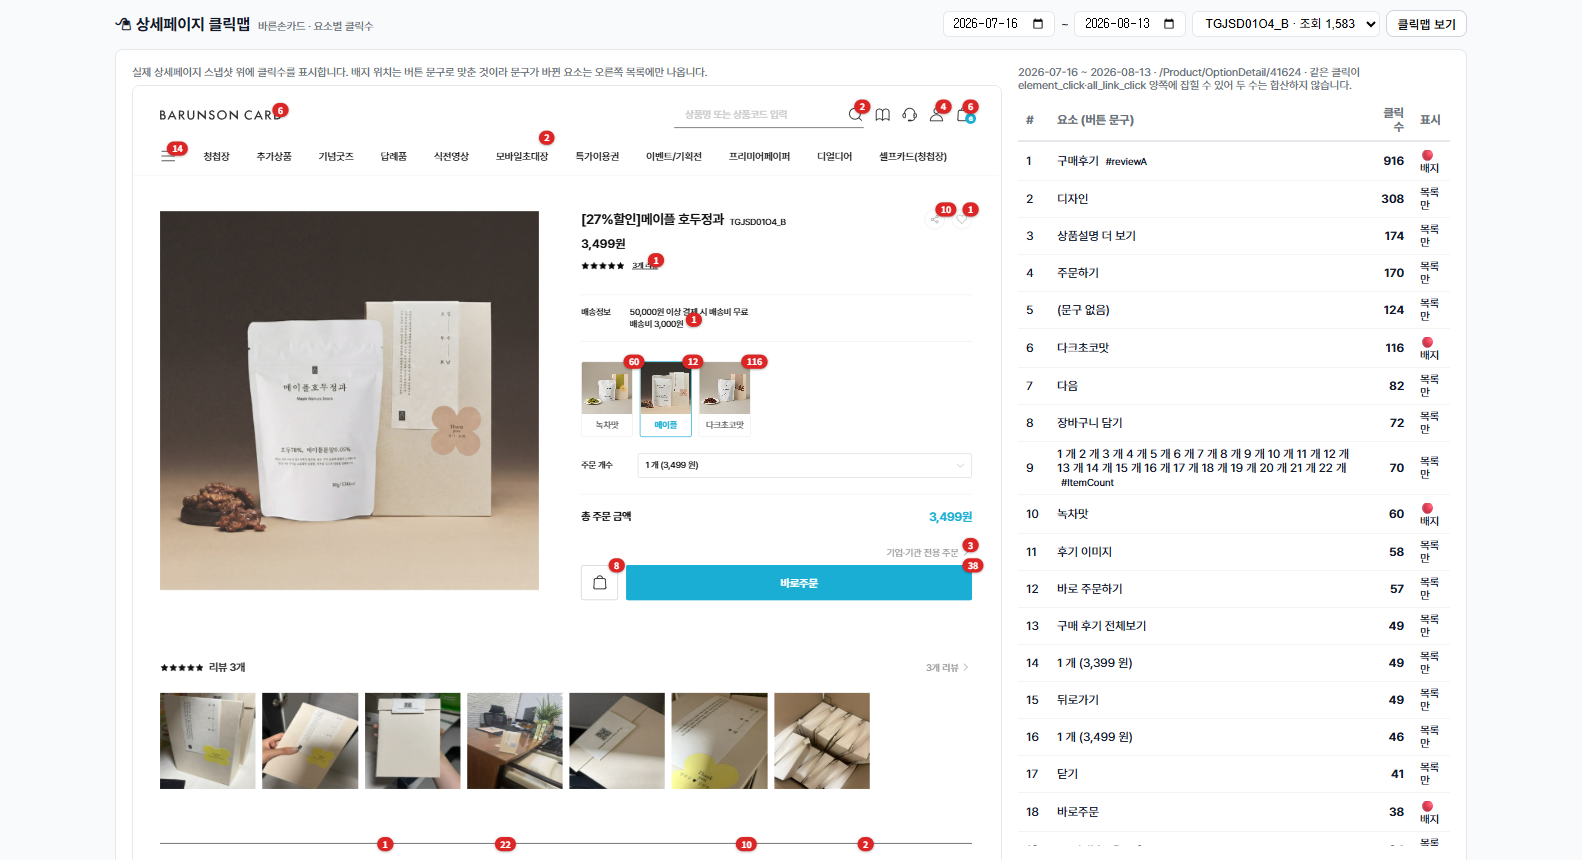
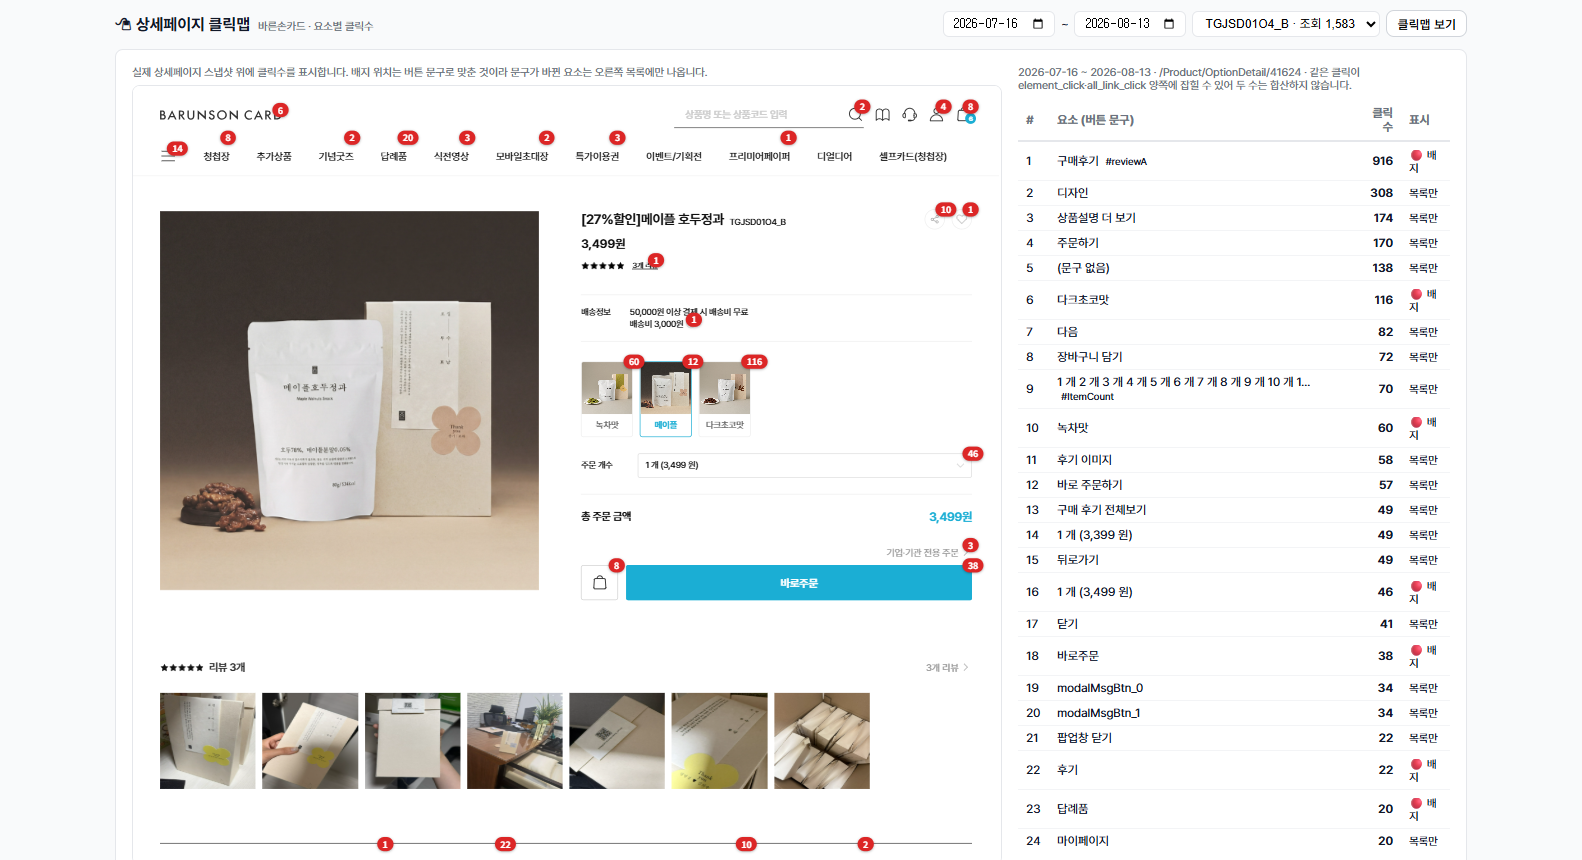
fix: 클릭맵 리뷰 지적 5건 — 값 가림·낡은 목록·빈 스크롤·숨은요소 탈락·리스너 중첩
3렌즈(보안·정합성·UI) 교차 리뷰에서 확인된 결함 전부 수정. 보안 렌즈는 확인된
지적 없음 (sandbox + 서버 sanitize + CSP + 경로 화이트리스트 유지).

1. count 대표값이 큰 값을 가림 (정합성) — 병합 키가 요소가 아니라 '문구' 라서,
   같은 문구의 버튼(element 40)과 링크(all_link 900)가 한 줄이 되면 'element 우선'
   규칙이 900 을 통째로 숨겼다. max(element, all_link) 로 — 더하지도 숨기지도 않는다.
2. 날짜를 바꿔도 페이지 목록이 옛 기간 기준 (정합성) — _cmPagesLoaded 리셋이 없어
   드롭다운의 '조회 N' 과 배지 수치가 서로 다른 기간을 가리켰다. 날짜 change 에서
   리셋, 다시 받아도 보던 페이지 선택은 유지.
3. 축소 시 수만 px 백지 스크롤 (UI) — transform 은 레이아웃 크기를 안 바꾸는데
   스케일러를 원본 크기로 잡아 콘텐츠가 끝난 뒤 ~19,000px 빈 영역이 생겼다.
   스케일러를 축소된 크기로 (검증자가 실브라우저로 수정안까지 확인).
4. 숨은(0×0) 요소가 매칭 1순위로 뽑혀 배지 통째 탈락 (UI) — GNB '답례품' 처럼
   데스크톱/모바일 메뉴에 같은 문구가 중복되면 숨은 쪽이 '가장 작은 요소' 로 뽑히고
   크기 가드에서 행이 버려졌다. 색인 단계에서 숨은 요소 제외 + click_id 로 찾은
   요소가 숨어 있으면 문구 매칭으로 폴백. 배지 24 → 31개로 회복.
5. 연속 조회 시 load 리스너 중첩 (UI) — 이전 조회의 배지가 새 페이지 위에 겹쳐
   찍힐 수 있었다. 세대 토큰으로 stale 콜백 폐기 + 이전 리스너 제거 + 부착 전
   기존 배지 삭제 (3중 방어).

회귀 테스트 추가 (값 가림), 실 데이터로 배지 31개·빈 스크롤 없음 확인.

diff --git a/pricing-prototype/daeryepum/index.html b/pricing-prototype/daeryepum/index.html
@@ -809,9 +809,10 @@ nav.nav-loading a[href^="#"] {
     <div class="section-title" style="display:flex;justify-content:space-between;align-items:center;flex-wrap:wrap;gap:8px">
       <span>🖱 상세페이지 클릭맵 <span style="font-size:11px;font-weight:400;color:var(--gray-500);margin-left:4px">바른손카드 · 요소별 클릭수</span></span>
       <div style="display:flex;gap:6px;align-items:center;flex-wrap:wrap;font-size:12px;font-weight:400">
-        <input type="date" id="cm-from" style="padding:4px 8px;font-size:12px;border:1px solid var(--gray-200);border-radius:6px">
+        <!-- 날짜를 바꾸면 페이지 목록(조회수 순)도 그 기간 기준으로 다시 받아야 한다 -->
+        <input type="date" id="cm-from" onchange="_cmPagesLoaded=false" style="padding:4px 8px;font-size:12px;border:1px solid var(--gray-200);border-radius:6px">
         <span style="color:var(--gray-400)">~</span>
-        <input type="date" id="cm-to" style="padding:4px 8px;font-size:12px;border:1px solid var(--gray-200);border-radius:6px">
+        <input type="date" id="cm-to" onchange="_cmPagesLoaded=false" style="padding:4px 8px;font-size:12px;border:1px solid var(--gray-200);border-radius:6px">
         <select id="cm-page" onfocus="loadClickmapPages()" style="padding:4px 8px;font-size:12px;border:1px solid var(--gray-200);border-radius:6px;max-width:260px">
           <option value="">▼ 눌러서 페이지 목록 불러오기</option>
         </select>
@@ -5992,6 +5993,9 @@ function _gaToggleRow(i) {
 //   배지 위치는 GA click_text 와 요소 문구를 맞춰 잡는다. click_id 가 있으면 그걸 우선.
 // ============================================
 let _cmPagesLoaded = false;
+let _cmLoadGen = 0;        // 조회 세대 — 연타 시 이전 조회의 onload 를 무효화한다
+let _cmOnload = null;      // 현재 걸려 있는 load 리스너 (새 조회 시작 시 뗀다)
+let _cmLoadTimeout = null;
 
 function _cmDefaultDates() {
   const d = (n) => new Date(Date.now() - n * 86400000 + 9 * 3600000).toISOString().slice(0, 10);
@@ -6014,9 +6018,11 @@ async function loadClickmapPages() {
     const j = await r.json();
     if (!r.ok) throw new Error(j.error || `HTTP ${r.status}`);
     const pages = j.pages || [];
+    const prev = sel.value;   // 날짜 변경으로 다시 받아도 보던 페이지 선택은 유지
     sel.innerHTML = pages.length
       ? pages.map(p => `<option value="${esc(p.path)}">${esc(p.code || p.path)} · 조회 ${Number(p.views).toLocaleString()}</option>`).join('')
       : '<option value="">기간 내 답례품 상세 조회가 없습니다</option>';
+    if (prev && pages.some(p => p.path === prev)) sel.value = prev;
     _cmPagesLoaded = true;
   } catch (e) {
     sel.innerHTML = `<option value="">목록 실패 — ${esc(String(e.message).slice(0, 60))}</option>`;
@@ -6044,24 +6050,34 @@ async function loadClickmap() {
       `${j.start_date} ~ ${j.end_date} · ${path} · ${j.note || ''}`;
 
     // 스냅샷 iframe 로드 → onload 에서 배지 부착.
-    //   로드가 영영 안 오면 (스냅샷 5xx 등) '불러오는 중' 에 갇힌다 — 타임아웃으로 풀어준다.
+    //   조회를 연달아 누르면 이전 조회의 리스너가 남아 한 번의 load 에 두 조회의 배지가
+    //   겹쳐 찍힌다 (리뷰 지적) — 세대 토큰으로 stale 콜백을 버리고 이전 리스너를 뗀다.
+    //   로드가 영영 안 오면 (스냅샷 5xx 등) 타임아웃으로 풀어준다.
     const frame = document.getElementById('cm-frame');
-    const timeout = setTimeout(() => {
-      frame.removeEventListener('load', onload);
+    const gen = ++_cmLoadGen;
+    if (_cmOnload) { frame.removeEventListener('load', _cmOnload); _cmOnload = null; }
+    if (_cmLoadTimeout) clearTimeout(_cmLoadTimeout);
+    _cmLoadTimeout = setTimeout(() => {
+      if (gen !== _cmLoadGen) return;
+      if (_cmOnload) { frame.removeEventListener('load', _cmOnload); _cmOnload = null; }
       status.innerHTML = '<span style="color:#b91c1c">페이지 스냅샷 로드가 오래 걸립니다 — 잠시 후 다시 시도하세요</span>';
     }, 30000);
     const onload = () => {
-      clearTimeout(timeout);
       frame.removeEventListener('load', onload);
+      if (gen !== _cmLoadGen) return;      // 이 사이 새 조회가 시작됐다 — 이 결과는 버린다
+      clearTimeout(_cmLoadTimeout);
+      _cmOnload = null;
       // 먼저 보이게 해야 레이아웃이 잡힌다 — 숨긴 채 재면 크기가 전부 0 이라
       //   배율이 음수가 되고 요소 위치도 못 잡는다 (2026-08-13 실측)
       status.style.display = 'none';
       wrap.style.display = 'flex';
       requestAnimationFrame(() => {
+        if (gen !== _cmLoadGen) return;
         try { _cmPlaceBadges(frame, j.rows || []); }
         catch (e) { console.warn('clickmap badge 실패:', e); _cmRenderList(j.rows || [], new Set()); }
       });
     };
+    _cmOnload = onload;
     frame.addEventListener('load', onload);
     frame.src = `${API}/api/ga/clickmap/snapshot?${new URLSearchParams({ site: 'card', path })}`;
   } catch (e) {
@@ -6087,15 +6103,24 @@ function _cmPlaceBadges(frame, rows) {
   // clientWidth 가 0 이면(아직 숨김 등) 축소를 포기하고 원본 크기로 — 음수 배율 방지
   const scale = outer.clientWidth > 100 ? Math.min(1, (outer.clientWidth - 2) / 1280) : 1;
   scaler.style.transform = `scale(${scale})`;
-  scaler.style.width = '1280px';
-  // transform 은 레이아웃 크기를 안 바꾼다 — 스크롤 영역을 배율에 맞춰 직접 잡는다
-  scaler.style.height = fullH + 'px';
+  // transform 은 레이아웃 크기를 안 바꾼다 — 스크롤 영역은 '축소된' 크기로 직접 잡아야
+  //   콘텐츠가 끝난 뒤 수만 px 의 백지 스크롤이 생기지 않는다 (리뷰 실측 검증).
+  scaler.style.width = Math.round(1280 * scale) + 'px';
+  scaler.style.height = Math.round(fullH * scale) + 'px';
   outer.style.height = Math.min(fullH * scale, window.innerHeight * 0.78) + 'px';
 
-  // 클릭 가능한 요소들을 문구 → [요소] 로 색인 (작은 요소 우선 — 큰 컨테이너 오매칭 방지)
+  // 이전 조회의 배지가 남아 있으면 지운다 — 새 문서면 없겠지만, 같은 문서에 다시
+  //   붙는 경로(캐시·연타)에서 겹침을 막는 마지막 방어선이다
+  doc.querySelectorAll('[data-cm-badge]').forEach(b => b.remove());
+
+  // 클릭 가능한 요소들을 문구 → [요소] 로 색인.
+  //   숨은 요소(0×0)는 색인에서 뺀다 — GNB '답례품' 처럼 데스크톱/모바일 메뉴에 같은
+  //   문구가 중복될 때, 숨은 쪽이 '가장 작은 요소' 로 뽑혀 배지가 통째로 탈락했다 (리뷰 지적).
   const candidates = doc.querySelectorAll('a,button,input[type=button],input[type=submit],label,[role=button]');
   const byText = new Map();
   for (const el of candidates) {
+    const rect = el.getBoundingClientRect();
+    if (rect.width < 2 || rect.height < 2) continue;
     const raw = el.tagName === 'INPUT' ? el.value : el.innerText;
     const key = _cmBase(raw);
     if (!key || key.length > 60) continue;
@@ -6113,13 +6138,19 @@ function _cmPlaceBadges(frame, rows) {
     if (!row.count) continue;
     rank++;
     let el = null;
-    if (row.click_id && doc.getElementById(row.click_id)) el = doc.getElementById(row.click_id);
-    else if (row.text && byText.has(row.text)) el = smallest(byText.get(row.text));
+    if (row.click_id) {
+      const byId = doc.getElementById(row.click_id);
+      // id 로 찾은 요소가 숨어 있으면 문구 매칭으로 넘어간다 — 여기서 행을 버리면
+      //   보이는 동일 문구 요소가 있어도 배지가 안 붙는다
+      if (byId) { const r = byId.getBoundingClientRect(); if (r.width >= 2 && r.height >= 2) el = byId; }
+    }
+    if (!el && row.text && byText.has(row.text)) el = smallest(byText.get(row.text));
     if (!el) continue;
     const rect = el.getBoundingClientRect();
-    if (rect.width < 2 || rect.height < 2) continue;     // 숨은 요소는 건너뛴다
+    if (rect.width < 2 || rect.height < 2) continue;
     matched.add(row.text || row.click_id);
     const badge = doc.createElement('div');
+    badge.setAttribute('data-cm-badge', '1');
     badge.textContent = `${Number(row.count).toLocaleString()}`;
     badge.title = `${row.text || row.click_id} — ${row.count_source} ${row.count.toLocaleString()}회`;
     badge.style.cssText = 'position:absolute;z-index:2147483647;pointer-events:none;'

diff --git a/pricing-prototype/daeryepum/ga/clickmap.js b/pricing-prototype/daeryepum/ga/clickmap.js
@@ -136,10 +136,12 @@ async function clicksForPath({ site = 'card', path, startDate, endDate } = {}) {
   const rows = [...by.values()].map(r => ({
     ...r,
     variants: [...r.variants].slice(0, 5),
-    // 배지에 쓸 대표값 — element_click 이 사이트가 설계한 요소 추적이라 우선.
-    //   없으면 링크 자동추적(all_link_click)으로. 절대 둘을 더하지 않는다.
-    count: r.element_click > 0 ? r.element_click : r.all_link_click,
-    count_source: r.element_click > 0 ? 'element_click' : 'all_link_click',
+    // 배지에 쓸 대표값 — 두 이벤트 중 큰 쪽. 합산은 이중계상이라 금지지만,
+    //   'element 우선' 은 함정이었다: 병합 키가 요소가 아니라 문구라서, 같은 문구의
+    //   버튼(element 40)과 링크(all_link 900)가 한 줄이 되면 900 이 통째로 숨는다
+    //   (리뷰 지적). max 는 숨기지도 더하지도 않는다.
+    count: Math.max(r.element_click, r.all_link_click),
+    count_source: r.element_click >= r.all_link_click ? 'element_click' : 'all_link_click',
   }));
   rows.sort((a, b) => b.count - a.count);
   return {
